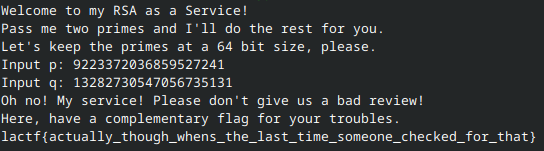
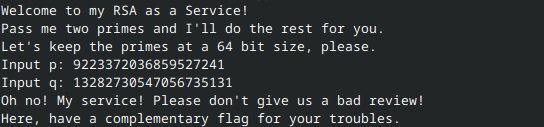
cleanup

Changed region(s): [[0.0, 0.1417, 1.0, 1.0], [0.0, 0.0236, 0.4688, 0.1417], [0.3438, 0.9921, 0.375, 1.0]]

diff --git a/content/ctf/picoCTF/practice/picker (I, II, III, IV).md b/content/ctf/picoCTF/practice/picker (I, II, III, IV).md
@@ -52,8 +52,6 @@ User input is `eval`uated without any form of escaping, so we can simply input t
 output = "0x70 0x69 0x63 0x6f 0x43 0x54 0x46 0x7b 0x34 0x5f 0x64 0x31 0x34 0x6d 0x30 0x6e 0x64 0x5f 0x31 0x6e 0x5f 0x37 0x68 0x33 0x5f 0x72 0x30 0x75 0x67 0x68 0x5f 0x36 0x65 0x30 0x34 0x34 0x34 0x30 0x64 0x7d"  
 print("".join([chr(int(o, 16)) for o in output.split()]))
 ```
-### Flag
-`picoCTF{4_d14m0nd_1n_7h3_r0ugh_6e04440d}`
 # Picker 2
 ## Problem
 ![[media/ctf/picoCTF/picker/description2.png]]
@@ -108,8 +106,6 @@ Like before, we must use `eval` to do our evil bidding. If we can't call `win` d
 ```
 print(open('flag.txt', 'r').read().strip())
 ```
-### Flag
-`picoCTF{f1l73r5_f41l_c0d3_r3f4c70r_m1gh7_5ucc33d_95d44590}`
 # Picker 3
 ## Problem
 ![[media/ctf/picoCTF/picker/description3.png]]
@@ -326,8 +322,6 @@ Now we are in the same situation as the first problem, and can re-use the script
 output = "0x70 0x69 0x63 0x6f 0x43 0x54 0x46 0x7b 0x37 0x68 0x31 0x35 0x5f 0x31 0x35 0x5f 0x77 0x68 0x34 0x37 0x5f 0x77 0x33 0x5f 0x67 0x33 0x37 0x5f 0x77 0x31 0x37 0x68 0x5f 0x75 0x35 0x33 0x72 0x35 0x5f 0x31 0x6e 0x5f 0x63 0x68 0x34 0x72 0x67 0x33 0x5f 0x61 0x31 0x38 0x36 0x66 0x39 0x61 0x63 0x7d"
 print("".join([chr(int(o, 16)) for o in output.split()]))
 ```
-### Flag
-`picoCTF{7h15_15_wh47_w3_g37_w17h_u53r5_1n_ch4rg3_a186f9ac}`
 # Picker 4
 ## Problem
 ![[media/ctf/picoCTF/picker/description4.png]]
@@ -398,7 +392,5 @@ Running this produces the following output:
 ![[winaddress.png]]
 
 `000000000040129e <win>`, as you might guess, identifies `000000000040129e` as the address of the `win` function - just what we need. Provide this value to the picker program, and pop goes the flag (which carries with it useful advice).
-### Flag
-`picoCTF{n3v3r_jump_t0_u53r_5uppl13d_4ddr35535_b8de1af4}`
 
 [^objdump]: https://www.man7.org/linux/man-pages/man1/objdump.1.html

diff --git a/content/ctf/picoCTF/practice/droids (0, 1, 2, 3, 4).md b/content/ctf/picoCTF/practice/droids (0, 1, 2, 3, 4).md
@@ -15,8 +15,6 @@ Given the APK, I first unpacked it and did some naive searching (as in [[Mob psy
 After inputting the answer and clicking the button, the flag is printed to Logcat.
 
 ![[droid0log.png]]
-### Flag
-`picoCTF{a.moose.once.bit.my.sister}`
 # droids1
 ## Problem
 ![[media/ctf/picoCTF/droids/description1.png]]
@@ -31,8 +29,6 @@ Taking a look at the strings, I noticed the following entry:
 That looks interesting! Let's try it: 
 
 ![[flag1.png]]
-### Flag
-`picoCTF{pining.for.the.fjords}`
 # droids2
 ## Problem
 ![[media/ctf/picoCTF/droids/description2.png]]
@@ -95,8 +91,6 @@ public class TwoSol {
 Running `java TwoSol.java` outputs `dismass.ogg.weatherwax.aching.nitt.garlick`, which, if input into the app, gets the flag!
 
 ![[flag2.png]]
-### Flag
-`picoCTF{what.is.your.favourite.colour}`
 # droids3
 ## Problem
 ![[media/ctf/picoCTF/droids/description3.png]]
@@ -173,8 +167,6 @@ true three/dist/three.apk
 Installing the modified app on the emulator, any input will be accepted and print the flag.
 
 ![[flag3.png]]
-### Flag
-`picoCTF{tis.but.a.scratch}`
 # droids4
 ## Problem
 ![[media/ctf/picoCTF/droids/description4.png]]
@@ -319,5 +311,3 @@ public class FourSol {
 This outputs `alphabetsoup`. Checking with our new APK, we see:
 
 ![[flag4.png]]
-### Flag
-`picoCTF{not.particularly.silly}`

diff --git a/content/ctf/picoCTF/2025/Event-Viewing.md b/content/ctf/picoCTF/2025/Event-Viewing.md
@@ -18,15 +18,7 @@ After loading the log file in Event Viewer, I searched for the *eventID*s associ
 Filtering the event logs on each of these eventIDs, we find each part of the flag.
 ## 1. Install (eventID = 1033)
 ![[part1.png]]
-
-`cGljb0NURntFdjNudF92aTN3djNyXw==` -> `picoCTF{Ev3nt_vi3wv3r_`
 ## 2. Registry Change (eventID = 4657)
 ![[part2.png]]
-
-`MXNfYV9wcjN0dHlfdXMzZnVsXw==` -> `1s_a_pr3tty_us3ful_`
 ## 3. Shutdown (eventID = 1077)
 ![[part3.png]]
-
-`dDAwbF84MWJhM2ZlOX0=` -> `t00l_81ba3fe9}`
-## Flag
-`picoCTF{Ev3nt_vi3wv3r_1s_a_pr3tty_us3ful_t00l_81ba3fe9}`

diff --git a/content/ctf/picoCTF/2025/flags are stepic.md b/content/ctf/picoCTF/2025/flags are stepic.md
@@ -32,8 +32,6 @@ I wasted hours trying different things. I still didn't know what "stepic" even m
 Running `stepic -d -i upz.png` spits out the flag. 
 
 I suppose this is the nature of forensics - scarcely glamorous, often tedious - yet, I can't help but feel this problem was a bit cheap.
-## Flag
-`picoCTF{fl4g_h45_fl4g51d83cb1}`
 
 [^1]: https://lydia-england.github.io/ncl-tools/tools/forensics-tools.html#Forensics  
 [^2]: https://0xrick.github.io/lists/stego/  

diff --git a/content/ctf/picoCTF/practice/Mob psycho.md b/content/ctf/picoCTF/practice/Mob psycho.md
@@ -25,7 +25,5 @@ This is where the `Forensics` tag comes into play, testing one's `find`-ing and 
 To confirm (and since we need the flag in ASCII), a conversion is in order. Either toss the string into CyberChef or open up a Python terminal or choose whichever weapon you prefer. I prefer Python whenever possible so:
 
 ![[hex2ascii.png]]
-## Flag
-`picoCTF{ax8mC0RU6ve_NX85l4ax8mCl_703dd9ef}`
 ## Extra
 ![[mob.jpg]]

diff --git a/content/ctf/picoCTF/practice/C3.md b/content/ctf/picoCTF/practice/C3.md
@@ -121,7 +121,5 @@ print(f"picoCTF{{{flag}}}")
 ```
 
 Finally, the output was a coherent word, and according to picoCTF, the correct flag.
-## Flag
-`picoCTF{adlibs}`
 ## Reflection
 I don't think this challenge deserves the 32% rating it has currently. It wasn't particularly difficult, frustrating, or time consuming (it took me maybe 10 minutes?). 

diff --git a/content/ctf/picoCTF/practice/dont-you-love-banners.md b/content/ctf/picoCTF/practice/dont-you-love-banners.md
@@ -110,8 +110,6 @@ All that remains now is to retrieve the flag.
 ![[media/ctf/picoCTF/dont-you-love-banners/flag.png]]
 
 And there we have it! 
-## Flag
-`picoCTF{b4nn3r_gr4bb1n9_su((3sfu11y_a0e119d4}`
 
 [^tldp]: https://tldp.org/LDP/lame/LAME/linux-admin-made-easy/shadow-file-formats.html
 [^linuxize]: https://linuxize.com/post/etc-shadow-file/

diff --git a/content/ctf/picoCTF/practice/rsa_oracle.md b/content/ctf/picoCTF/practice/rsa_oracle.md
@@ -76,7 +76,5 @@ print(res.stdout)
 Running this (and playing along with the oracle) goes a little something like this:
 
 ![[oracle_and_script.png]]
-## Flag
-`picoCTF{su((3ss_(r@ck1ng_r3@_3319c817}`
 ## Reflection
 While this script does the job, it's a bit ugly and cumbersome. Going forward, I'll be trying Pwntools to make things a bit nicer

diff --git a/content/ctf/picoCTF/practice/packer.md b/content/ctf/picoCTF/practice/packer.md
@@ -20,5 +20,3 @@ Opening Binary Ninja once again, this time with `out-unpacked`, I returned to th
 The full string is: `Password correct, please see flag: 7069636f4354467b5539585f556e5034636b314e365f42316e34526933535f33373161613966667d`.
 
 Converting the hex to ASCII yields the flag.
-## Flag
-`picoCTF{U9X_UnP4ck1N6_B1n4Ri3S_371aa9ff}`

diff --git a/content/ctf/picoCTF/2025/Bitlocker-2.md b/content/ctf/picoCTF/2025/Bitlocker-2.md
@@ -56,8 +56,6 @@ sudo mount -t ntfs-3g /mnt/dislocker/dislocker-file /mnt/decrypted
 ```
 
 Just as before, when we `ls /mnt/decrypted`, we  find `flag.txt`.
-## Flag
-`picoCTF{B1tl0ck3r_dr1v3_d3crypt3d_9029ae5b}`
 
 [^dumpcache]: https://github.com/volatilityfoundation/volatility/issues/704
 [^ntfs-3g]: https://askubuntu.com/a/501035

diff --git a/content/ctf/picoCTF/2025/ChaChaSlide.md b/content/ctf/picoCTF/2025/ChaChaSlide.md
@@ -132,8 +132,6 @@ for i in res:
   
        print(c3.hex() + t3.hex() + n1.hex())
 ```
-## Flag
-`picoCTF{7urn_17_84ck_n0w_de83e62c}`
 
 [^wiki]: https://en.wikipedia.org/wiki/ChaCha20-Poly1305#Security
 [^wikidiagram]: https://en.wikipedia.org/wiki/ChaCha20-Poly1305#/media/File:ChaCha20-Poly1305_Encryption.svg

diff --git a/content/ctf/picoCTF/practice/weirdSnake.md b/content/ctf/picoCTF/practice/weirdSnake.md
@@ -332,8 +332,6 @@ result = [a ^ b for a,b in zip(input_list, key_list)]
 result_text = ''.join(map(chr, result))  
 print(result_text)
 ```
-## Flag
-`picoCTF{N0t_sO_coNfus1ng_sn@ke_30a13a97}`
 
 [^os]: https://opensource.com/article/18/4/introduction-python-bytecode
 [^so]: https://stackoverflow.com/a/19560286
